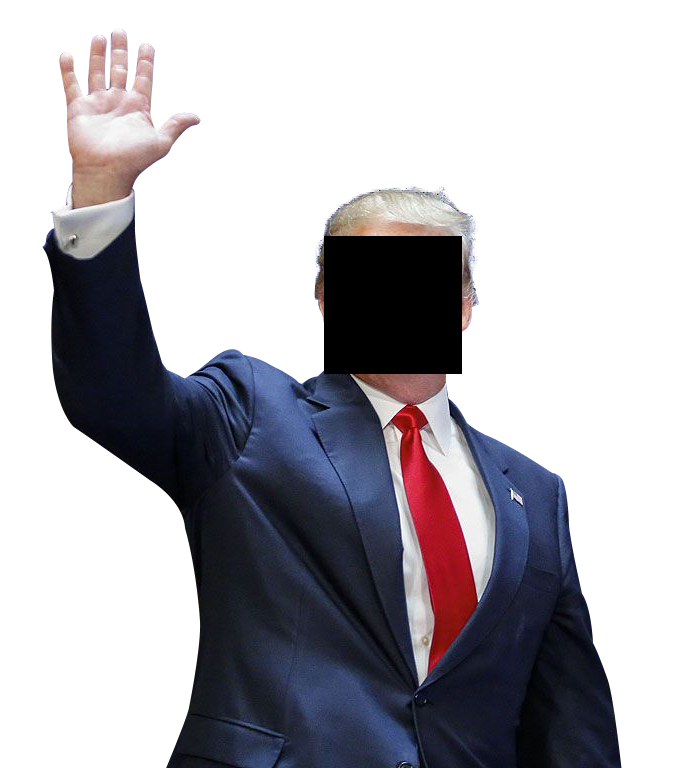
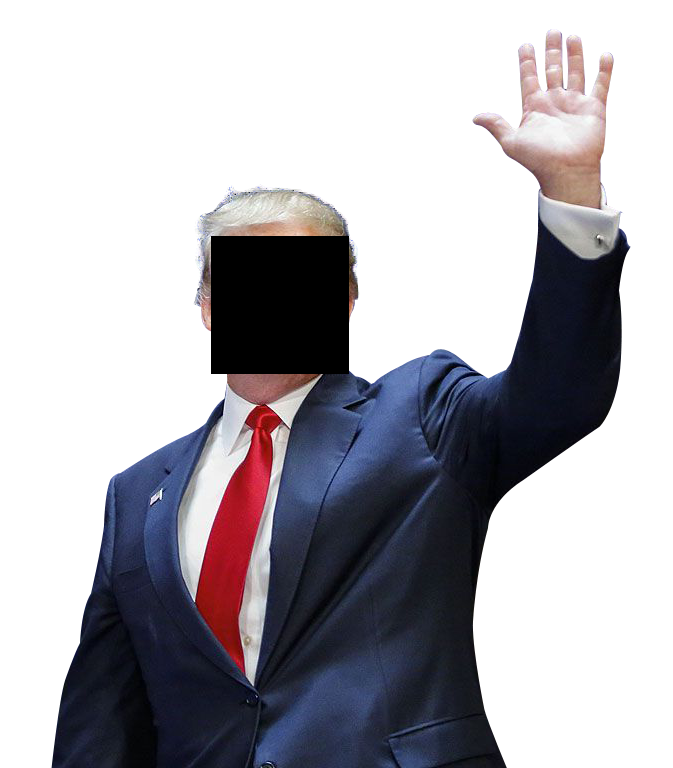
yayy uhmm finished things, waiting to change the placeholder

diff --git a/public/style.css b/public/style.css
@@ -17,13 +17,12 @@
   --font-head: "Trebuchet MS", Tahoma, Verdana, sans-serif;
 }
 * { box-sizing: border-box; }
-body { margin: 0; background-color: var(--page); background-image: repeating-linear-gradient(-45deg, rgba(0, 0, 0, .09) 0, rgba(0, 0, 0, .09) 2px, transparent 2px, transparent 6px); color: var(--ink); font: 14px/1.45 var(--font); }
-
+body { position: relative; margin: 0; min-height: 100dvh; display: flex; flex-direction: column; overflow-x: hidden; background-color: var(--page); background-image: linear-gradient(rgba(0, 0, 0, .08) 2px, transparent 2px), linear-gradient(90deg, rgba(0, 0, 0, .08) 2px, transparent 2px); background-size: 20px 20px; color: var(--ink); font: 14px/1.45 var(--font); }
 a { color: var(--link); }
 a:hover { color: var(--headline); }
 img { max-width: 100%; }
 :focus-visible { outline: 2px solid var(--orange); outline-offset: 2px; }
-.wrap { width: calc(100% - 70px); max-width: 1000px; margin: 0 auto; }
+.wrap { width: calc(100% - 70px); max-width: 1000px; margin: 0 auto; flex: 1; display: flex; flex-direction: column; }
 
 /* Desktop logo */
 .top { position: relative; height: 66px; }
@@ -63,15 +62,16 @@ img { max-width: 100%; }
 .box-body { padding: 0 6px; }
 
 /* rows inside a box */
-.row { display: flex; gap: 12px; padding: 11px 4px; border-bottom: 1px dotted var(--line); }
+.row { display: flex; gap: 12px; padding: 11px 4px; border-bottom: 1px dotted var(--line); overflow-wrap: anywhere; word-break: break-word; }
+.row div { min-width: 0; overflow: hidden; }
 .row:first-child { padding-top: 7px; }
 .row:last-child { border-bottom: 0; }
 .row:hover { background: rgba(255, 255, 255, .45); }
 .row-pic { flex: none; width: 76px; height: 76px; background: #a8a496; border: 1px solid var(--line); object-fit: cover; display: block; }
-.row-title { display: block; font-weight: bold; font-size: 15px; }
+.row-title { display: block; font-weight: bold; font-size: 15px; overflow-wrap: anywhere; }
 .row-title a { color: var(--link); text-decoration: none; }
 .row-title a:hover { color: var(--headline); text-decoration: underline; }
-.row-sub { display: block; }
+.row-sub { display: block; overflow-wrap: anywhere; }
 .row-intro { opacity: 75%; font-style: italic; display: -webkit-box; -webkit-line-clamp: 2; -webkit-box-orient: vertical; overflow: hidden; }
 
 /* featured member box */
@@ -178,9 +178,9 @@ img { max-width: 100%; }
 
 /* ink splatters and the stripe strip (pictures are in public/splat-*.svg) */
 .navrow::after, .page::after, .footer::before { content: ""; position: absolute; z-index: 1; pointer-events: none; background: center / contain no-repeat; }
-.navrow::after { right: 204px; top: -1px; width: 64px; height: 64px; background-image: url('/splat-1.svg'); }
-/* .page::after { right: 20px; bottom: -60px; width: 80px; height: 80px; background-image: url('/splat-4.svg'); } */
-.footer::before { left: 84px; top: -32px; width: 64px; height: 64px; background-image: url('/splat-2.svg'); }
+.navrow::after { right: 204px; top: -1px; width: 64px; height: 64px; background-image: url('/splats/splat-1.svg'); }
+/* .page::after { right: 20px; bottom: -60px; width: 80px; height: 80px; background-image: url('/splats/splat-4.svg'); } */
+.footer::before { left: 84px; top: -32px; width: 64px; height: 64px; background-image: url('/splats/splat-2.svg'); }
 .footer::after { content: ""; position: absolute; left: 0; bottom: 0; width: 70px; height: 10px; pointer-events: none; background: repeating-linear-gradient(-45deg, var(--orange) 0, var(--orange) 3px, transparent 3px, transparent 6px); }
 
 /* search box: the dropdown, and the note on a filtered list (Part L, script is public/search.js) */
@@ -279,6 +279,19 @@ img { max-width: 100%; }
   .logo img { height: 24px; }
   .corner { padding: 0 6px; }
 }
+
+.corner-fig-wrap { position: absolute; bottom: 0; z-index: 9999; }
+.left-wrap { left: -25px; }
+.right-wrap { right: -25px; }
+.corner-fig { position: relative; width: 300px; max-width: 100vw; height: auto; pointer-events: auto; cursor: pointer; display: block; }
+.fig-close { position: absolute; bottom: 100%; left: 50%; transform: translateX(-50%); background: var(--maroon); color: var(--yellow); padding: 2px 8px; font: bold 12px var(--font-head); text-transform: uppercase; border: 1px solid var(--line); white-space: nowrap; opacity: 0; visibility: hidden; transition: opacity 0.2s ease, visibility 0.2s ease; cursor: pointer; }
+.corner-fig-wrap:hover .fig-close { opacity: 1; visibility: visible; }
+.corner-fig-wrap.fade-out { opacity: 0; transition: opacity 0.5s ease; pointer-events: none; }
+@media (max-width: 1200px) {
+  .corner-fig-wrap { display: none; }
+}
+
+.fade-out { opacity: 0; transition: opacity 0.5s ease; pointer-events: none; }
 
 /* Private member form page */
 .form-wrap { max-width: 660px; margin: 0 auto; }
